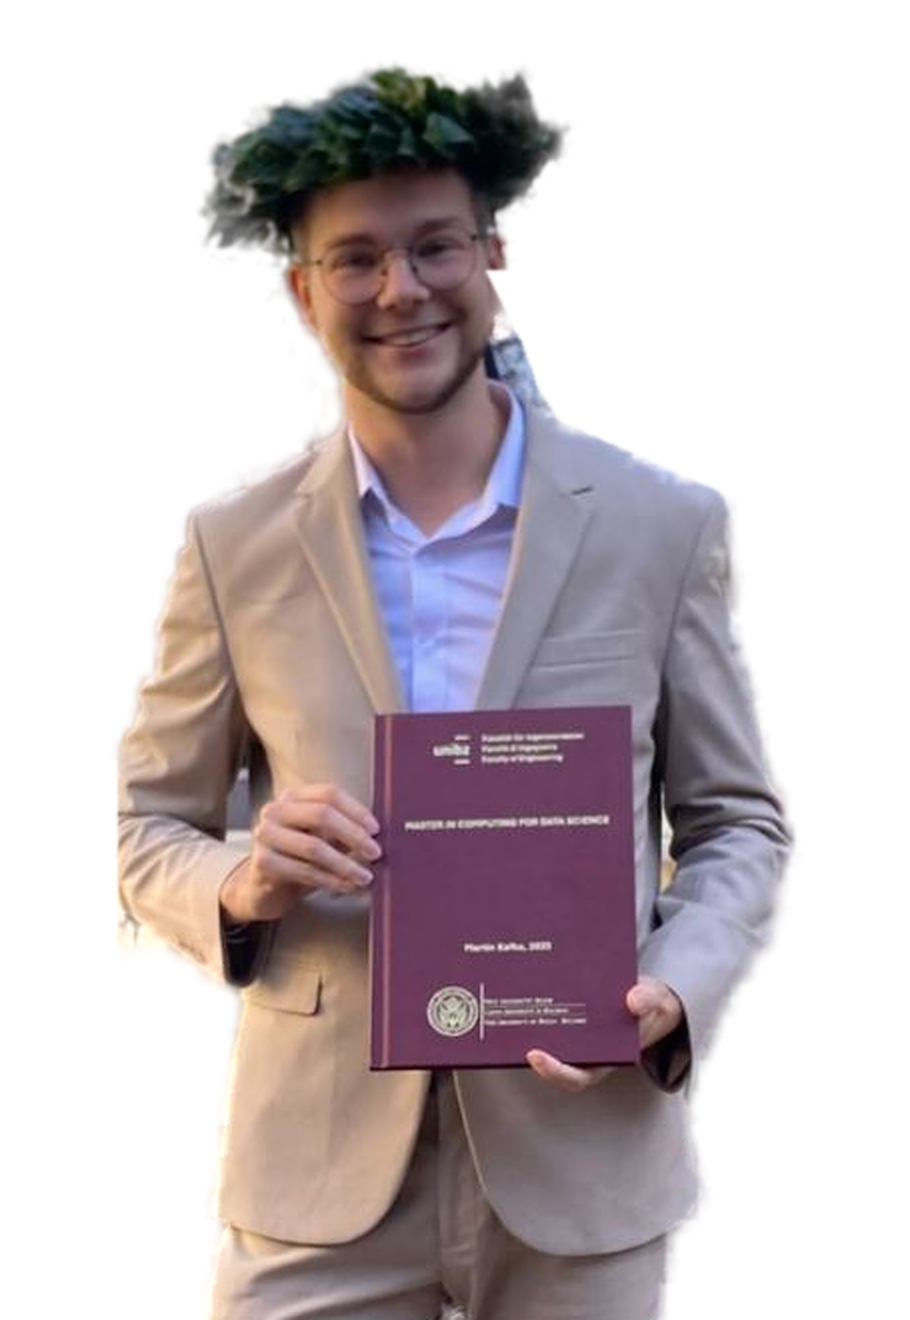
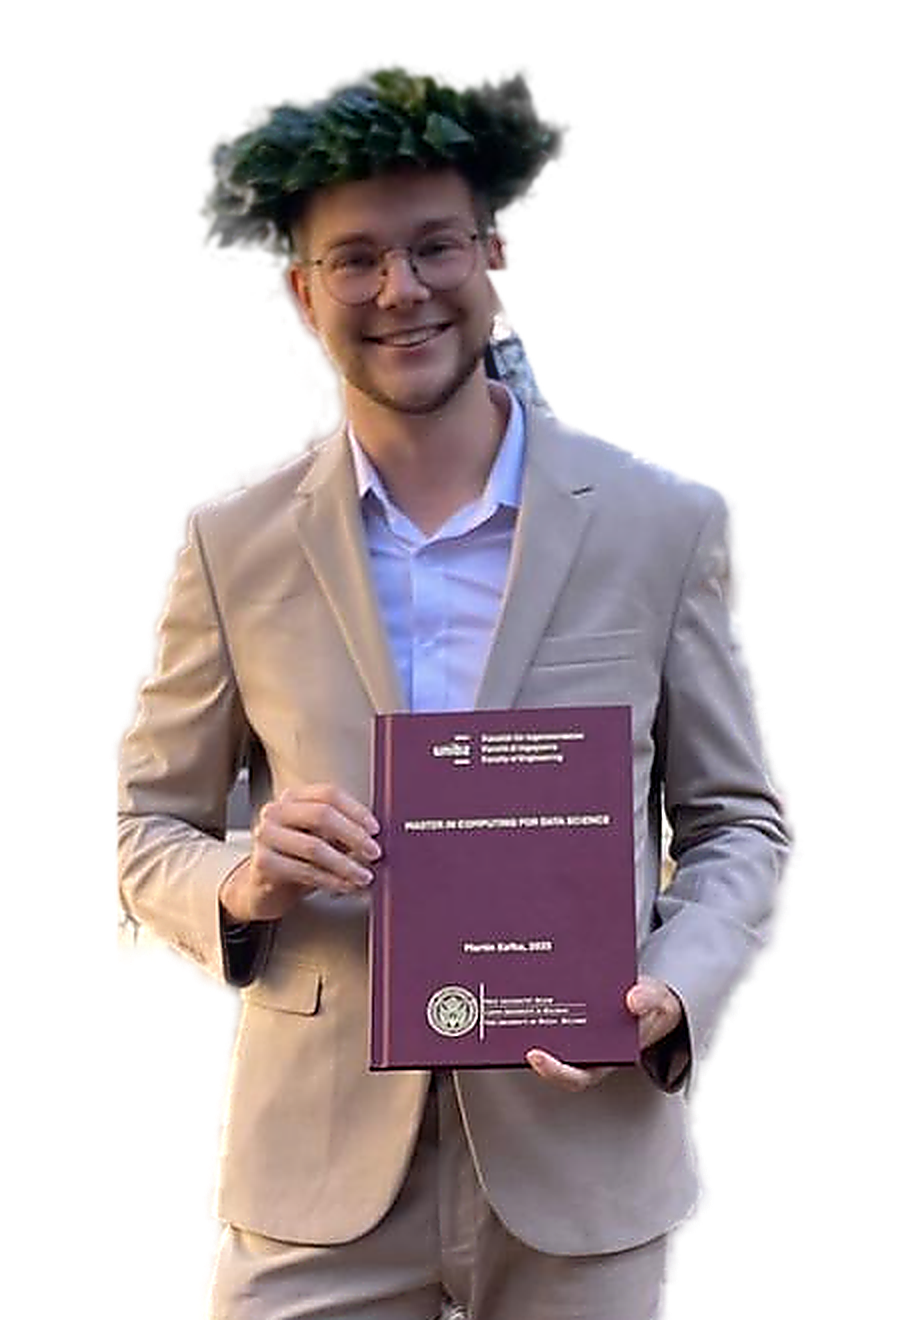
Sharpen hero cutout, smooth the section transition, widen ceremony photo
The graduation shot came off WhatsApp already soft — the face measured a
fraction of the frame's overall detail. Sharpened it in two passes around
the upscale (unsharp at native resolution, then a gentler pass at 2x) with
a threshold that leaves flat areas like the suit alone, so the glasses,
wreath and thesis lettering read at display size without halos.

The dissolve into the cap toss ran over too few gradient stops and landed
abruptly; it now spans 26rem across sixteen stops so the cream gives way
gradually.

The ceremony hall was boxed into the 780px content column while the cap
toss ran edge to edge, which read as a mismatch. Education and Projects
now share a full-bleed .photobed wrapper carrying the photograph behind
both, matched to the width of the band above it, with a dark layer over
the image so headings and cards stay legible.

diff --git a/style.css b/style.css
@@ -515,20 +515,30 @@ header {
 /* The page dissolves into the graduation itself: cream at the top, the cap
    toss in full in the middle, then down into the dark of the section. */
 .header-img {
-    height: 20rem;
+    height: 26rem;
     background-image:
         linear-gradient(to bottom,
             var(--bg) 0%,
-            rgba(247, 246, 242, 0.72) 14%,
-            rgba(247, 246, 242, 0) 34%,
-            rgba(20, 20, 20, 0) 55%,
-            rgba(20, 20, 20, 0.75) 82%,
+            rgba(247, 246, 242, 0.97) 6%,
+            rgba(247, 246, 242, 0.88) 12%,
+            rgba(247, 246, 242, 0.72) 18%,
+            rgba(247, 246, 242, 0.52) 24%,
+            rgba(247, 246, 242, 0.32) 30%,
+            rgba(247, 246, 242, 0.15) 36%,
+            rgba(247, 246, 242, 0.04) 42%,
+            rgba(20, 20, 20, 0) 50%,
+            rgba(20, 20, 20, 0.08) 58%,
+            rgba(20, 20, 20, 0.22) 66%,
+            rgba(20, 20, 20, 0.42) 74%,
+            rgba(20, 20, 20, 0.64) 82%,
+            rgba(20, 20, 20, 0.84) 90%,
+            rgba(20, 20, 20, 0.96) 96%,
             var(--bg-dark) 100%),
         url("./images/graduation-caps.jpg");
     background-size: cover;
     background-position: center, center 38%;
     background-repeat: no-repeat;
-    margin-bottom: 3rem;
+    margin-bottom: 1rem;
     position: relative;
     display: flex;
     align-items: flex-end;
@@ -564,33 +574,37 @@ header {
     align-items: flex-start;
 }
 
-/* The ceremony hall sits behind the degrees it belongs to, faded to a texture. */
-.portfolio-section--edu {
+/* The ceremony hall runs edge to edge behind the degrees and the work they
+   produced, at the same full width as the cap toss above it. */
+.photobed {
     position: relative;
     isolation: isolate;
+    padding-top: 2rem;
 }
 
-.portfolio-section--edu::before {
+.photobed::before {
     content: '';
     position: absolute;
-    inset: -3rem -14%;
-    background: url("./images/ceremony-hall.jpg") center 42% / cover no-repeat;
-    opacity: 0.22;
-    -webkit-mask-image: radial-gradient(ellipse 62% 58% at 50% 48%, #000 0%, rgba(0, 0, 0, 0.5) 52%, transparent 80%);
-    mask-image: radial-gradient(ellipse 62% 58% at 50% 48%, #000 0%, rgba(0, 0, 0, 0.5) 52%, transparent 80%);
+    inset: 0 0 -1rem;
+    background:
+        linear-gradient(rgba(20, 20, 20, 0.35), rgba(20, 20, 20, 0.35)),
+        url("./images/ceremony-hall.jpg") center 40% / cover no-repeat;
+    opacity: 0.3;
+    -webkit-mask-image: linear-gradient(to bottom, transparent 0%, rgba(0, 0, 0, 0.55) 12%, #000 26%, #000 66%, rgba(0, 0, 0, 0.5) 86%, transparent 100%);
+    mask-image: linear-gradient(to bottom, transparent 0%, rgba(0, 0, 0, 0.55) 12%, #000 26%, #000 66%, rgba(0, 0, 0, 0.5) 86%, transparent 100%);
     pointer-events: none;
     z-index: -1;
 }
 
 /* Keep the cards readable where they overlap the photograph */
-.portfolio-section--edu .portfolio-item {
-    background: rgba(20, 20, 20, 0.55);
+.photobed .portfolio-item {
+    background: rgba(20, 20, 20, 0.58);
     backdrop-filter: blur(3px);
     -webkit-backdrop-filter: blur(3px);
 }
 
-.portfolio-section--edu .portfolio-item:hover {
-    background: rgba(32, 32, 32, 0.72);
+.photobed .portfolio-item:hover {
+    background: rgba(32, 32, 32, 0.74);
 }
 
 .portfolio-section > h4 {
@@ -1108,11 +1122,7 @@ footer a:hover {
     }
 
     .header-img {
-        height: 10rem;
-    }
-
-    .portfolio-section--edu::before {
-        inset: -1.5rem -6%;
+        height: 14rem;
     }
 
     .portfolio-item {

diff --git a/index.html b/index.html
@@ -226,8 +226,11 @@
         <section class="portfolio" id="portfolio">
             <div class="header-img"></div>
 
+            <!-- EDUCATION + PROJECTS share the ceremony photograph behind them -->
+            <div class="photobed">
+
             <!-- EDUCATION SECTION -->
-            <div class="portfolio-section portfolio-section--edu">
+            <div class="portfolio-section">
                 <h4 data-lang="en">EDUCATION</h4>
                 <h4 data-lang="cs" style="display: none;">VZDĚLÁNÍ</h4>
 
@@ -336,6 +339,8 @@
                     </div>
                 </div>
             </div>
+
+            </div><!-- /.photobed -->
 
             <!-- WORK EXPERIENCE SECTION -->
             <div class="portfolio-section">
